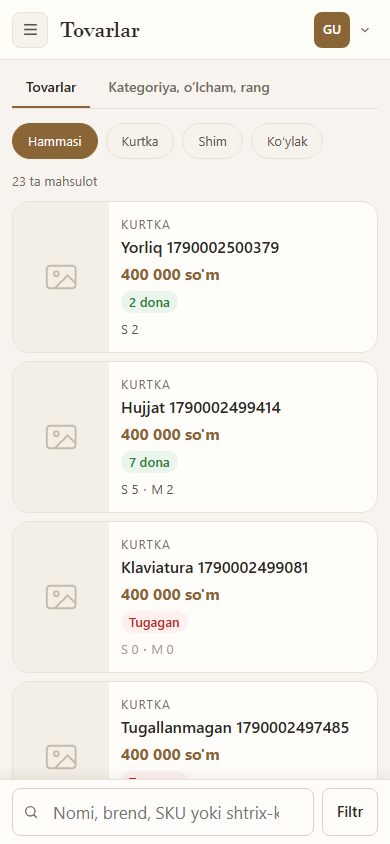
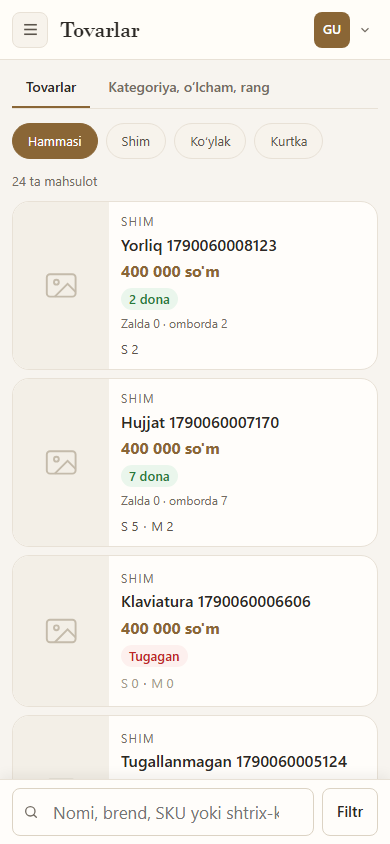
Skrinshot albomiga «Zalga chiqarish» ekrani qo'shildi
Albom ekranlari yangi ko'rinishda qayta olindi: tovarlar ro'yxatida va
tanlagichda endi zal va ombor qoldig'i alohida ko'rinadi.

diff --git a/front/src/views/TransferView.vue b/front/src/views/TransferView.vue
@@ -200,9 +200,7 @@ onMounted(load)
         </ul>
       </div>
 
-      <div v-if="!chosen.length" class="empty-state">
-        Ombordagi tovarni toping va nechtasini zalga chiqarishni yozing.
-      </div>
+      <div v-if="!chosen.length" class="empty-state">Tovar tanlanmagan.</div>
 
       <div v-for="item in chosen" :key="item.product" class="model" data-testid="transfer-model">
         <div class="model-head">

diff --git a/front/tests/screens.spec.ts b/front/tests/screens.spec.ts
@@ -94,6 +94,7 @@ const SCREENS: Screen[] = [
   { name: 'product', path: '', ready: '.product-page' },
   { name: 'pos', path: '/', ready: '.pos', prepare: fillCart },
   { name: 'purchases', path: '/purchases', ready: '.data-table tbody' },
+  { name: 'transfers', path: '/transfers', ready: '.data-table tbody' },
   { name: 'reports', path: '/reports', ready: '.kpi-card' },
 ]
 

diff --git a/README.md b/README.md
@@ -101,13 +101,13 @@ cd agent && npm test                                  # 85 ta
 
 ### Interfeys testlari — alohida bazada
 
-Playwright haqiqiy brauzerda ilovani tekshiradi (65 ta): navigatsiya va
+Playwright haqiqiy brauzerda ilovani tekshiradi (67 ta): navigatsiya va
 tuzilma, tovarlar sahifasi, sotish, tovar qabul qilish (uch qadam: yangi
 tovar, o'lcham × rang katakchasi, yorliq), ombordan zalga chiqarish,
 telefon o'lchami, chop etish (sahifalar soni va o'lchami chiqqan PDF dan
 o'lchanadi) va chop etish agenti.
 
-`tests/screens.spec.ts` yettita asosiy ekranni ikki o'lchamda ochadi
+`tests/screens.spec.ts` sakkizta asosiy ekranni ikki o'lchamda ochadi
 (1366x768 va 390x844) va ikki narsani tekshiradi: sahifa yon tomonga
 surilmaydi va konsolda xato yo'q. O'zgaruvchi berilsa, o'sha yurishda
 hujjat uchun rasm ham oladi:
